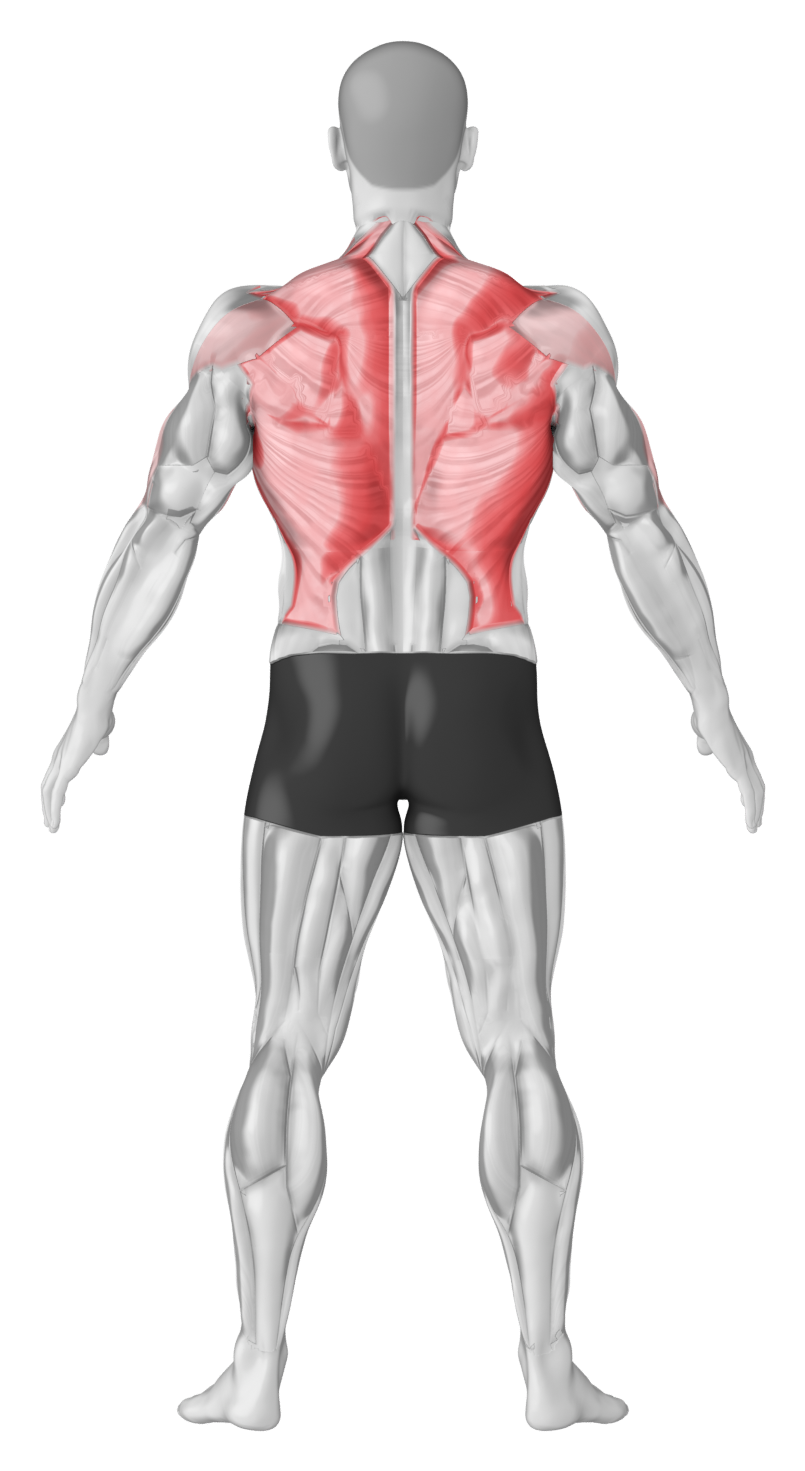
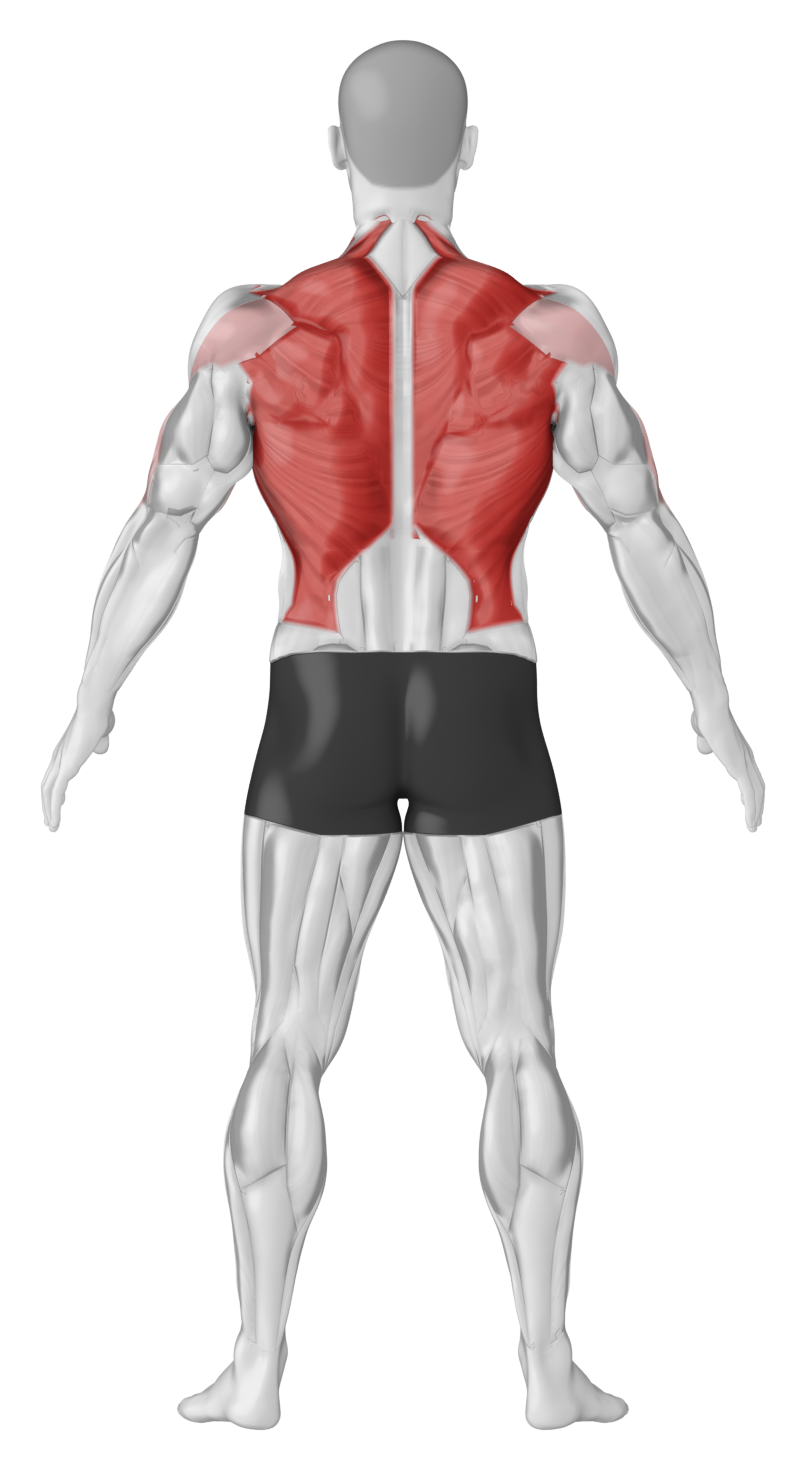
Muñeco 3D: imagen de la app con la sombra C y un rojo más oscuro (equilibrio con la ilustración actual)
Claude-Session: https://claude.ai/code/session_01L3W63pyD9xBe3QfAf5Yfcw

diff --git a/cuerpo3d/GUIA.md b/cuerpo3d/GUIA.md
@@ -431,6 +431,11 @@ cd w && env $(cat ../ill/style_app.env) SHOWBAR=0 HIDEBANCO=1 MAPS=../ill/maps_p
   sombras de los grises como D (`TONES` 0,30…, `BUMPK=1.8`, `GBUMP=1.1`, `EMIN=0.52`, `MAOP=0.5`, `CAVK=0.12`) y el
   relieve del rojo como C (`RBUMP=0.4`, `REDCON=2.0`), con las fibras suaves de la imagen fija. Solo para imágenes de la
   app; los vídeos siguen con `style_v14`.
+- 03-11, dueño: «me gusta la opción C; el rojo está rosado, hazlo más oscuro, que se asemeje a la otra ilustración
+  aunque no tan guinda; encuentra un equilibrio». Medido (mediana del rojo de la espalda): su ilustración (145, 62, 57),
+  la C (230, 155, 157). Objetivo intermedio ~(185, 90, 85): **`ill/style_app.env` = C + `RCOLS` más oscuros en la parte
+  iluminada (`style_app_c_r2.env`)**, mediana (190, 88, 84). `r1` algo más claro (198, 103, 99). Comparación:
+  `ejemplos/pull_rojo_opciones.jpg`.
 
 ## 6. Decisiones de estilo del dueño (no deshacer)
 
